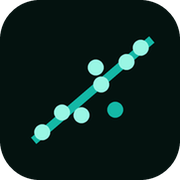
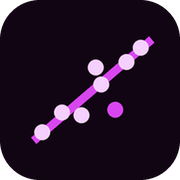
identity: fuchsia on #110413, because the register caught a clash
The theme register measured #14b8a6 against the family and found it already
carried by what-it-costs.nodejavascript.com — a host this repository's own grep
could not see, which is exactly why the register exists. The accent is now
#d946ef on a #110413 ground, the mark and both icon sets are redrawn in it, and
a second register run reports no clashes among the published sites.

Changed region(s): [[0.1667, 0.1944, 0.8611, 0.8056], [0.5833, 0.5556, 0.6944, 0.6667]]

diff --git a/site/styles.css b/site/styles.css
@@ -6,16 +6,16 @@
  */
 
 :root {
-  --ink: #e8f5f2;
-  --ink-2: #a8c4bf;
-  --ink-3: #6d8b87;
-  --accent: #14b8a6;
-  --accent-soft: #99f6e4;
-  --line: #16302c;
-  --line-2: #1f4340;
-  --ground: #04120f;
-  --panel: #071a16;
-  --panel-2: #0a2420;
+  --ink: #f7eef9;
+  --ink-2: #c9aed1;
+  --ink-3: #8f7395;
+  --accent: #d946ef;
+  --accent-soft: #f5d0fe;
+  --line: #301433;
+  --line-2: #46184d;
+  --ground: #110413;
+  --panel: #1a0720;
+  --panel-2: #230a2b;
   --warn: #fbbf24;
   --bad: #f87171;
   --radius: 14px;
@@ -49,8 +49,8 @@ body {
   z-index: 0;
   pointer-events: none;
   background-image:
-    linear-gradient(to right, rgba(20, 184, 166, 0.07) 1px, transparent 1px),
-    linear-gradient(to bottom, rgba(20, 184, 166, 0.07) 1px, transparent 1px);
+    linear-gradient(to right, rgba(217, 70, 239, 0.07) 1px, transparent 1px),
+    linear-gradient(to bottom, rgba(217, 70, 239, 0.07) 1px, transparent 1px);
   background-size: 32px 32px;
   -webkit-mask-image: radial-gradient(ellipse 90% 60% at 50% 0%, #000 0%, transparent 78%);
   mask-image: radial-gradient(ellipse 90% 60% at 50% 0%, #000 0%, transparent 78%);
@@ -70,7 +70,7 @@ a:hover {
   left: -9999px;
   top: 0;
   background: var(--accent);
-  color: #04120f;
+  color: #110413;
   padding: 0.6rem 1rem;
   border-radius: 0 0 8px 0;
   font-weight: 700;
@@ -90,7 +90,7 @@ a:hover {
   align-items: center;
   gap: 0.75rem;
   padding: 0.7rem clamp(1rem, 4vw, 2.5rem);
-  background: rgba(4, 18, 15, 0.82);
+  background: rgba(17, 4, 19, 0.82);
   backdrop-filter: blur(10px);
   border-bottom: 1px solid var(--line);
 }
@@ -155,7 +155,7 @@ main {
   padding: 0.9rem 0.9rem 0.6rem;
   border: 1px solid var(--line);
   border-radius: var(--radius);
-  background: rgba(7, 26, 22, 0.6);
+  background: rgba(26, 7, 32, 0.6);
 }
 .hero-figure figcaption {
   margin-top: 0.35rem;
@@ -205,7 +205,7 @@ h1 {
 .btn.primary {
   background: var(--accent);
   border-color: var(--accent);
-  color: #04120f;
+  color: #110413;
 }
 .btn.primary:hover {
   background: var(--accent-soft);
@@ -218,7 +218,7 @@ h1 {
   position: relative;
   margin: 0 0 clamp(2rem, 4vw, 3rem);
   padding: clamp(1.2rem, 2.6vw, 2rem);
-  background: linear-gradient(180deg, rgba(10, 36, 32, 0.72), rgba(7, 26, 22, 0.72));
+  background: linear-gradient(180deg, rgba(35, 10, 43, 0.72), rgba(26, 7, 32, 0.72));
   border: 1px solid var(--line);
   border-radius: var(--radius);
 }
@@ -283,7 +283,7 @@ h3 {
 }
 .chip[aria-pressed="true"] {
   border-color: var(--accent);
-  background: rgba(20, 184, 166, 0.14);
+  background: rgba(217, 70, 239, 0.14);
 }
 .chip[aria-pressed="true"] small {
   color: var(--accent-soft);
@@ -330,7 +330,7 @@ h3 {
   padding: 0.7rem 0.9rem;
   border: 1px solid var(--line);
   border-radius: 10px;
-  background: rgba(4, 18, 15, 0.5);
+  background: rgba(17, 4, 19, 0.5);
 }
 .control-row label {
   font-size: 0.84rem;
@@ -385,7 +385,7 @@ output {
   overflow-x: auto;
   border: 1px solid var(--line);
   border-radius: 10px;
-  background: rgba(4, 18, 15, 0.42);
+  background: rgba(17, 4, 19, 0.42);
 }
 
 table {
@@ -415,7 +415,7 @@ tbody tr:last-child td {
   border-bottom: 0;
 }
 tbody tr:hover td {
-  background: rgba(20, 184, 166, 0.06);
+  background: rgba(217, 70, 239, 0.06);
 }
 td.num {
   font-family: var(--mono);
@@ -459,7 +459,7 @@ tr.total td,
 tr.total th {
   font-weight: 700;
   color: var(--ink);
-  background: rgba(20, 184, 166, 0.07);
+  background: rgba(217, 70, 239, 0.07);
 }
 
 /* ── the arithmetic block ───────────────────────────────────────────────────────────────── */
@@ -468,7 +468,7 @@ tr.total th {
   margin-top: 0.9rem;
   padding: 0.85rem 1rem;
   border-left: 2px solid var(--accent);
-  background: rgba(20, 184, 166, 0.06);
+  background: rgba(217, 70, 239, 0.06);
   border-radius: 0 8px 8px 0;
   font-family: var(--mono);
   font-size: 0.8rem;
@@ -512,7 +512,7 @@ figcaption {
   stroke-width: 1;
 }
 .chart .bar {
-  fill: rgba(20, 184, 166, 0.55);
+  fill: rgba(217, 70, 239, 0.55);
   stroke: var(--accent);
   stroke-width: 1;
 }
@@ -537,7 +537,7 @@ figcaption {
   stroke: var(--ink-3);
 }
 .chart .box {
-  fill: rgba(20, 184, 166, 0.18);
+  fill: rgba(217, 70, 239, 0.18);
   stroke: var(--accent);
   stroke-width: 1.4;
 }
@@ -636,7 +636,7 @@ figcaption {
   border: 1px solid var(--line);
   border-left-width: 2px;
   border-radius: 0 8px 8px 0;
-  background: rgba(4, 18, 15, 0.42);
+  background: rgba(17, 4, 19, 0.42);
 }
 .assumption h4 {
   margin: 0 0 0.25rem;
@@ -717,7 +717,7 @@ figcaption {
 code {
   font-family: var(--mono);
   font-size: 0.86em;
-  background: rgba(20, 184, 166, 0.1);
+  background: rgba(217, 70, 239, 0.1);
   padding: 0.08em 0.32em;
   border-radius: 4px;
   color: var(--accent-soft);
@@ -726,7 +726,7 @@ code {
 pre {
   margin: 0 0 0.9rem;
   padding: 0.9rem 1rem;
-  background: #020a08;
+  background: #0d0310;
   border: 1px solid var(--line);
   border-radius: 10px;
   overflow-x: auto;
@@ -781,7 +781,7 @@ pre code {
   gap: 0.7rem;
   font-size: 0.86rem;
   color: var(--ink-3);
-  background: rgba(4, 18, 15, 0.7);
+  background: rgba(17, 4, 19, 0.7);
 }
 .footer-brand {
   display: flex;
@@ -893,7 +893,7 @@ pre code {
 .consentActions button.primary {
   background: var(--accent);
   border-color: var(--accent);
-  color: #04120f;
+  color: #110413;
 }
 .consentActions button:hover {
   border-color: var(--accent);
@@ -963,13 +963,13 @@ pre code {
   height: 24px;
   border-radius: 999px;
   border: 1px solid var(--line-2);
-  background: #04120f;
+  background: #110413;
   cursor: pointer;
   position: relative;
   padding: 0;
 }
 .consentSwitch[aria-checked="true"] {
-  background: rgba(20, 184, 166, 0.35);
+  background: rgba(217, 70, 239, 0.35);
   border-color: var(--accent);
 }
 .consentDot {

diff --git a/site/index.html b/site/index.html
@@ -9,7 +9,7 @@
       content="A statistics workbench in one page: real datasets, every figure computed in front of you, every assumption named, every estimate printed with its uncertainty."
     />
     <link rel="canonical" href="https://data-science-demo.nodejavascript.com/" />
-    <meta name="theme-color" content="#14b8a6" />
+    <meta name="theme-color" content="#d946ef" />
     <meta name="color-scheme" content="dark" />
 
     <link rel="icon" type="image/png" sizes="180x180" href="/favicon-180.png" />
@@ -107,16 +107,16 @@
                The same drawing, in the same order, is `site/favicon.svg` — part 15c of the standard
                requires the bar, the footer and the icon to be the same drawing. -->
           <svg viewBox="0 0 64 64" width="26" height="26" focusable="false">
-            <rect width="64" height="64" rx="14" fill="#04120f" />
-            <line x1="12" y1="50" x2="54" y2="14" stroke="#14b8a6" stroke-width="3" stroke-linecap="round" />
-            <circle cx="15" cy="47" r="2.8" fill="#99f6e4" />
-            <circle cx="22" cy="40" r="2.8" fill="#99f6e4" />
-            <circle cx="29" cy="41" r="2.8" fill="#99f6e4" />
-            <circle cx="36" cy="30" r="2.8" fill="#99f6e4" />
-            <circle cx="34" cy="24" r="2.8" fill="#99f6e4" />
-            <circle cx="45" cy="22" r="2.8" fill="#99f6e4" />
-            <circle cx="50" cy="17" r="2.8" fill="#99f6e4" />
-            <circle cx="41" cy="39" r="2.8" fill="#14b8a6" />
+            <rect width="64" height="64" rx="14" fill="#110413" />
+            <line x1="12" y1="50" x2="54" y2="14" stroke="#d946ef" stroke-width="3" stroke-linecap="round" />
+            <circle cx="15" cy="47" r="2.8" fill="#f5d0fe" />
+            <circle cx="22" cy="40" r="2.8" fill="#f5d0fe" />
+            <circle cx="29" cy="41" r="2.8" fill="#f5d0fe" />
+            <circle cx="36" cy="30" r="2.8" fill="#f5d0fe" />
+            <circle cx="34" cy="24" r="2.8" fill="#f5d0fe" />
+            <circle cx="45" cy="22" r="2.8" fill="#f5d0fe" />
+            <circle cx="50" cy="17" r="2.8" fill="#f5d0fe" />
+            <circle cx="41" cy="39" r="2.8" fill="#d946ef" />
           </svg>
         </span>
         <span class="brand-text">
@@ -423,16 +423,16 @@ python3 tools/check-page.py     # the page against the family's rules</code></pr
         <span class="mark" aria-hidden="true">
           <!-- the same drawing as the bar above and as `site/favicon.svg` (part 15c) -->
           <svg viewBox="0 0 64 64" width="22" height="22" focusable="false">
-            <rect width="64" height="64" rx="14" fill="#04120f" />
-            <line x1="12" y1="50" x2="54" y2="14" stroke="#14b8a6" stroke-width="3" stroke-linecap="round" />
-            <circle cx="15" cy="47" r="2.8" fill="#99f6e4" />
-            <circle cx="22" cy="40" r="2.8" fill="#99f6e4" />
-            <circle cx="29" cy="41" r="2.8" fill="#99f6e4" />
-            <circle cx="36" cy="30" r="2.8" fill="#99f6e4" />
-            <circle cx="34" cy="24" r="2.8" fill="#99f6e4" />
-            <circle cx="45" cy="22" r="2.8" fill="#99f6e4" />
-            <circle cx="50" cy="17" r="2.8" fill="#99f6e4" />
-            <circle cx="41" cy="39" r="2.8" fill="#14b8a6" />
+            <rect width="64" height="64" rx="14" fill="#110413" />
+            <line x1="12" y1="50" x2="54" y2="14" stroke="#d946ef" stroke-width="3" stroke-linecap="round" />
+            <circle cx="15" cy="47" r="2.8" fill="#f5d0fe" />
+            <circle cx="22" cy="40" r="2.8" fill="#f5d0fe" />
+            <circle cx="29" cy="41" r="2.8" fill="#f5d0fe" />
+            <circle cx="36" cy="30" r="2.8" fill="#f5d0fe" />
+            <circle cx="34" cy="24" r="2.8" fill="#f5d0fe" />
+            <circle cx="45" cy="22" r="2.8" fill="#f5d0fe" />
+            <circle cx="50" cy="17" r="2.8" fill="#f5d0fe" />
+            <circle cx="41" cy="39" r="2.8" fill="#d946ef" />
           </svg>
         </span>
         <span><b>Data science demo</b> · <a href="https://nodejavascript.com/">nodejavascript.com</a></span>

diff --git a/site/app.js b/site/app.js
@@ -809,7 +809,7 @@ function renderClassify() {
   g.append(s("text", { class: "label", x: (pad.l + w - pad.r) / 2, y: h - 6, "text-anchor": "middle" }, document.createTextNode("false positive rate")));
   g.append(s("text", { class: "label", x: 12, y: pad.t + 30, "text-anchor": "middle", transform: `rotate(-90 12 ${pad.t + 30})` }, document.createTextNode("true positive rate")));
 
-  const colours = ["#14b8a6", "#99f6e4", "#fbbf24", "#f87171", "#c084fc"];
+  const colours = ["#d946ef", "#f5d0fe", "#fbbf24", "#4ade80", "#38bdf8"];
   labels.forEach((label, li) => {
     const isPos = y.map((v) => v === label);
     const pts = M.rocCurve(scoreByClass.get(label), isPos);

diff --git a/tools/make_icons.py b/tools/make_icons.py
@@ -28,9 +28,9 @@ HERE = os.path.dirname(os.path.abspath(__file__))
 ROOT = os.path.join(os.path.dirname(HERE), "site")
 IMG = os.path.join(ROOT, "img")
 
-BG = (4, 18, 15)
-TEAL = (20, 184, 166)
-PALE = (153, 246, 228)
+BG = (17, 4, 19)
+ACCENT = (217, 70, 239)
+PALE = (245, 208, 254)
 INK = (232, 245, 242)
 
 # the line, in the 64-unit grid the SVG uses
@@ -49,12 +49,12 @@ def draw(size: int, *, keep: int = 8, point_r: float = 2.8, line_w: float = 3.0,
     def xy(p):
         return (p[0] * k, p[1] * k)
 
-    d.line([xy(LINE[0]), xy(LINE[1])], fill=TEAL, width=max(1, round(line_w * k)))
+    d.line([xy(LINE[0]), xy(LINE[1])], fill=ACCENT, width=max(1, round(line_w * k)))
     for i, p in enumerate(POINTS[:keep]):
         r = point_r * k
         cx, cy = xy(p)
         # the last point is the one the line does not quite pass through; it carries the accent
-        fill = TEAL if i == len(POINTS[:keep]) - 1 else PALE
+        fill = ACCENT if i == len(POINTS[:keep]) - 1 else PALE
         d.ellipse([cx - r, cy - r, cx + r, cy + r], fill=fill)
 
     img = img.resize((size, size), Image.LANCZOS)
@@ -79,16 +79,16 @@ def rounded(size: int) -> Image.Image:
 
 
 SVG = """<svg xmlns="http://www.w3.org/2000/svg" viewBox="0 0 64 64" role="img" aria-label="A scatter of points with a fitted line">
-  <rect width="64" height="64" rx="14" fill="#04120f"/>
-  <line x1="12" y1="50" x2="54" y2="14" stroke="#14b8a6" stroke-width="3" stroke-linecap="round"/>
-  <circle cx="15" cy="47" r="2.8" fill="#99f6e4"/>
-  <circle cx="22" cy="40" r="2.8" fill="#99f6e4"/>
-  <circle cx="29" cy="41" r="2.8" fill="#99f6e4"/>
-  <circle cx="36" cy="30" r="2.8" fill="#99f6e4"/>
-  <circle cx="34" cy="24" r="2.8" fill="#99f6e4"/>
-  <circle cx="45" cy="22" r="2.8" fill="#99f6e4"/>
-  <circle cx="50" cy="17" r="2.8" fill="#99f6e4"/>
-  <circle cx="41" cy="39" r="2.8" fill="#14b8a6"/>
+  <rect width="64" height="64" rx="14" fill="#110413"/>
+  <line x1="12" y1="50" x2="54" y2="14" stroke="#d946ef" stroke-width="3" stroke-linecap="round"/>
+  <circle cx="15" cy="47" r="2.8" fill="#f5d0fe"/>
+  <circle cx="22" cy="40" r="2.8" fill="#f5d0fe"/>
+  <circle cx="29" cy="41" r="2.8" fill="#f5d0fe"/>
+  <circle cx="36" cy="30" r="2.8" fill="#f5d0fe"/>
+  <circle cx="34" cy="24" r="2.8" fill="#f5d0fe"/>
+  <circle cx="45" cy="22" r="2.8" fill="#f5d0fe"/>
+  <circle cx="50" cy="17" r="2.8" fill="#f5d0fe"/>
+  <circle cx="41" cy="39" r="2.8" fill="#d946ef"/>
 </svg>
 """
 
@@ -114,7 +114,7 @@ def social_card() -> Image.Image:
         pass
 
     # the line the page draws, redrawn large across the card
-    d.line([(700, 470), (1130, 200)], fill=TEAL, width=10)
+    d.line([(700, 470), (1130, 200)], fill=ACCENT, width=10)
     for p in [(740, 440), (800, 380), (860, 400), (920, 300), (990, 330), (1050, 240), (1090, 210)]:
         d.ellipse([p[0] - 11, p[1] - 11, p[0] + 11, p[1] + 11], fill=PALE)
 
@@ -122,7 +122,7 @@ def social_card() -> Image.Image:
     # shape is unmistakably this site's
     y = 330
     for i, width in enumerate([420, 470, 380]):
-        d.rounded_rectangle([80, y, 80 + width, y + 26], radius=13, fill=INK if i < 2 else TEAL)
+        d.rounded_rectangle([80, y, 80 + width, y + 26], radius=13, fill=INK if i < 2 else ACCENT)
         y += 46
     d.rounded_rectangle([80, y + 10, 80 + 300, y + 32], radius=11, fill=(90, 130, 125))
     return img
